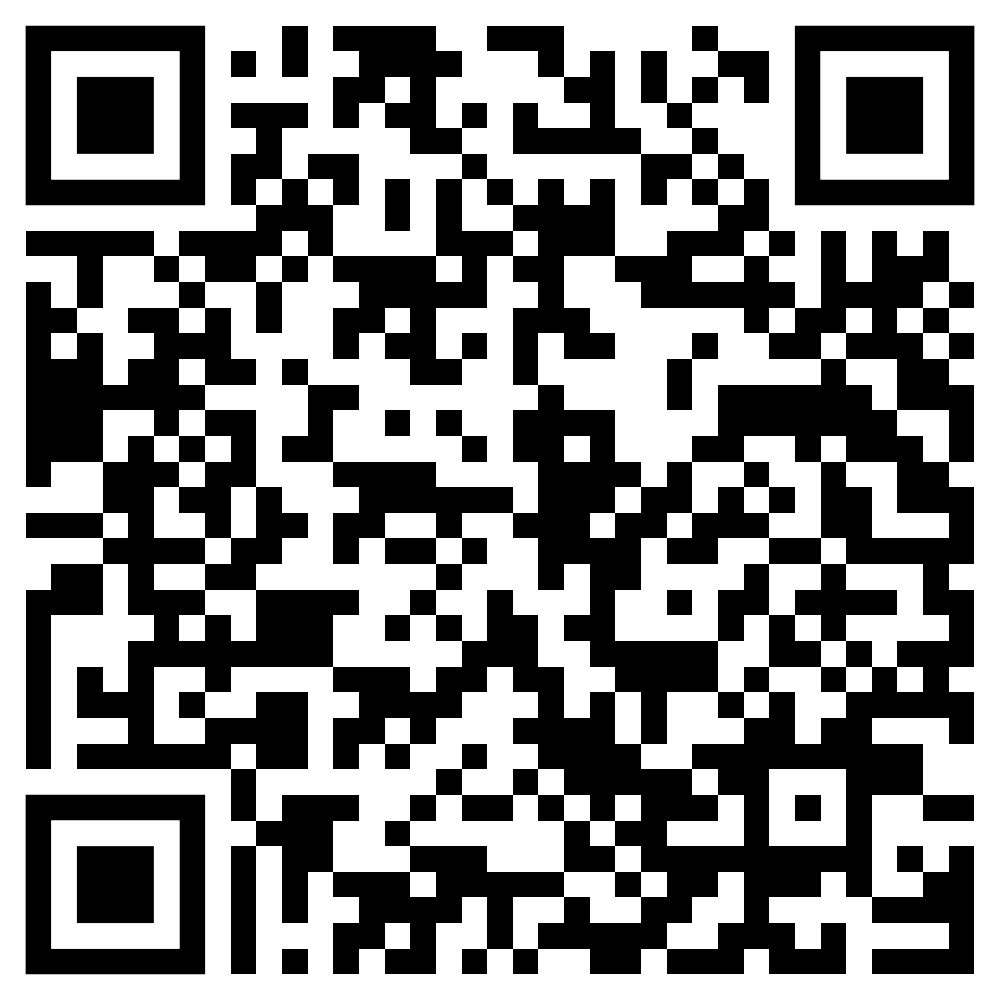
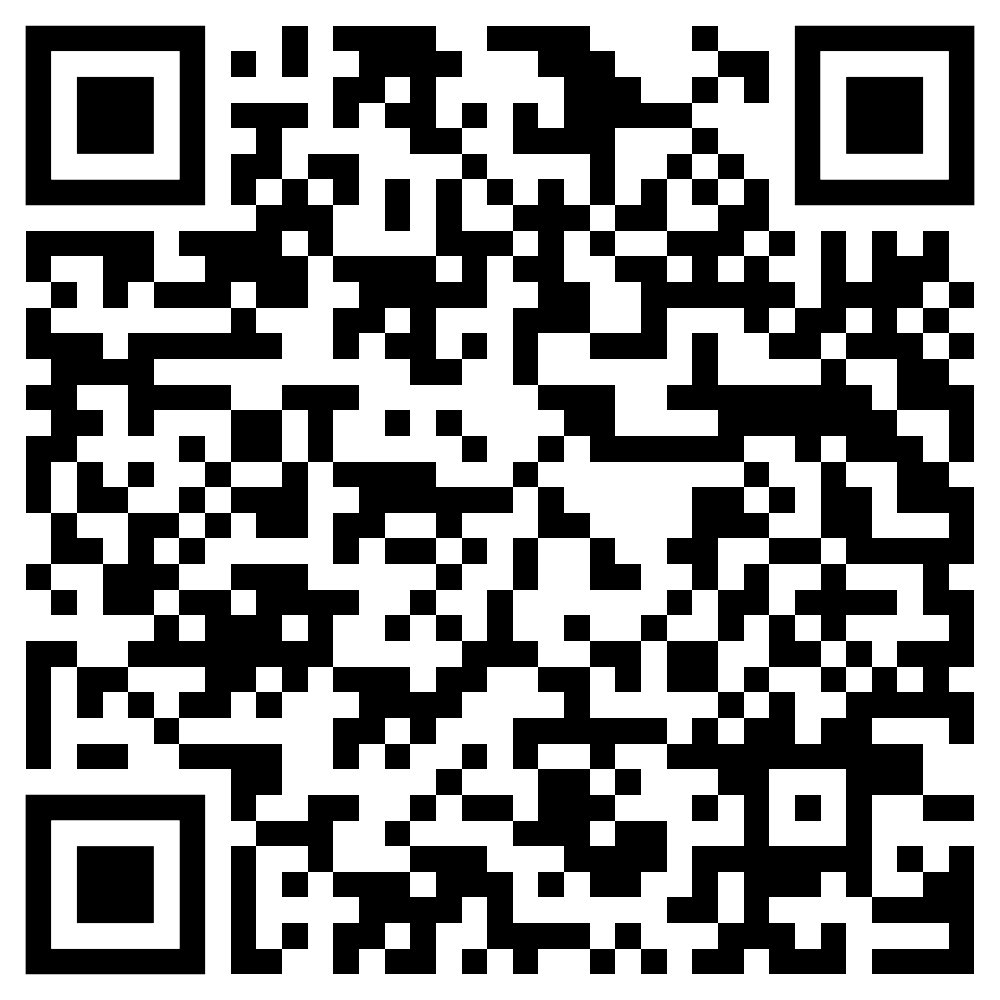
update readme file

diff --git a/README.md b/README.md
@@ -2,104 +2,36 @@
 
 Aplicativo desenvolvido para o desafio de Flutter da [Codesh](https://coodesh.com/). 
 
+A aplicação recupera dados do Firestore através de uma Realtime Database e gera uma lista editável de produtos.
+
 ## Instruções de instalação
 
-Para instalar o aplicativo basta executar o [.apk](https://drive.google.com/file/d/16UJIWGMFizQ4ar8Cpyko8X9NBxAjKBzz/view?usp=sharing) no seu dispositivo android. É importante ativar a permissão de "[Fontes Desconhecidas](https://www.tudocelular.com/curiosidade/noticias/n139751/como-instalar-apps-fontes-desconhecidas-android.html)" para conseguir instalar o arquivo.
+Para instalar o aplicativo basta executar o [.apk](https://drive.google.com/file/d/12vVerydVGksyuMH3OEVhmjzadZnGNH-1/view?usp=sharing) no seu dispositivo android. É importante ativar a permissão de "[Fontes Desconhecidas](https://www.tudocelular.com/curiosidade/noticias/n139751/como-instalar-apps-fontes-desconhecidas-android.html)" para conseguir instalar o arquivo.
 
+<img title="" src="assets/qrcode.png" alt="QR code para Download" width="163" data-align="center">
 
+Ou clicando [aqui](https://drive.google.com/file/d/12vVerydVGksyuMH3OEVhmjzadZnGNH-1/view?usp=sharing).
 
-![QR code para Download](assets/DownloadQR.png)
+## Instruções de utilização
 
-Ou clicando [aqui](https://drive.google.com/file/d/16UJIWGMFizQ4ar8Cpyko8X9NBxAjKBzz/view?usp=sharing).
+Na tela principal do aplicativo há uma lista de produtos contendo as seguintes informações:
 
-# 
+- Foto
 
-__________________________________________________________
+- Título
 
-## Instruções do desafio
+- Tipo
 
-### Obrigatório
+- Avaliação
 
-- Leia atentamente todo o descritivo desse documento antes de qualquer coisa;
-- Trabalhar em um FORK deste repositório em seu usuário;
-- O projeto deverá ser desenvolvido em Flutter/Dart;
-- Os produtos disponíveis no projeto da aplicação devem ser recuperados através do Firebase Realtime DB ou Firestore;
-- Utilize sempre boas práticas nas implementações. OOP, SOLID, DDD, Clean Code, Injeção de Dependência são sempre bem-vindos e fazem toda diferença!!!
+- Data de criação
 
-## API / Firebase
+- Preço
 
-### Base de Dados
+Também é possível excluir e editar os items através dos botões em cada um dos items.
 
-- Utilizar o Firestore ou Firebase Realtime DB
+**Para editar um item**, basta tocar no ícone do lápis no canto superior direito do card. Uma tela de edição aparecerá com os campos preenchidos com as informações atuais do item selecionado. Basta editar os campos existentes. É necessário que o campo de título não seja vazio! Caso contrário, as edições não poderão ser confirmadas.
 
-- Processar os produtos do arquivo [products.json](products.json) para termos dados para editar e excluir durante os testes 
+**Para excluir um item**, basta tocar no ícone "X" no canto superior direito do card. Em seguida, aparecerá uma mensagem de confirmação, então basta confirmar a exclusão do item. 
 
-## Aplicação Flutter
-
-![<img src="assets/images/home.png" height="500" alt="Home" title="Home"/>](assets/images/home.png)
-
-#### Listar produtos
-
-Criar uma sessão na tela com uma lista de os produtos processados pela API. É importante ter os seguintes campos:
-
-        - Foto
-        - Title
-        - Type
-        - Rating
-        - Price
-        - Created (Data do upload do produto a nova base de datos)
-        - Actions (Botões Editar e Excluir)
-
-#### Editar produto
-
-Na tabela com os produtos precisamos disponibilizar os formulários com todos os campos dos produtos para que a equipe possa editá-los. 
-Fazer validação de alguns campos obrigatórios:
-
-        - Title
-        - Type
-        - Price
-
-#### Remover produto
-
-Antes de completar a ação de remover produto, devemos perguntar ao usuário se ele realmente 
-quer realizar a ação. Para evitar a remoção de produtos de maneira indesejada. Após remover com êxito, notificar o usuário com um alerta de sucesso. 
-
-#### Extras
-
-**Diferencial 1** - Utilizar Unit Test no front-end para a opção de `Remover produto`. 
-
-**Diferencial 2** - Utilizar Unit Test para revisar se está listando produtos 
-
-**Diferencial 3 -** Utilizar alguma ferramenta de Injeção de Dependência
-
-**Diferencial 4 -** Utilizar alguma ferramenta para download e cache de imagens
-
-#### Publicar
-
-Utilizar seu repositório para disponibilizar a aplicação as versões Android e/ou iOS.
-
-## Readme do Repositório
-
-- Deve conter o título de cada projeto
-- Uma descrição de uma frase
-- Como instalar e usar o projeto (instruções)
-- Não esqueça o [.gitignore](https://www.toptal.com/developers/gitignore)
-- Link de downloads para iOS e/ou Android
-
-## Finalização
-
-Avisar sobre a finalização e enviar para correção em: [https://coodesh.com/review-challenge](https://coodesh.com/review-challenge) 
-
-Após essa etapa será marcado a apresentação/correção do projeto.
-
-## Instruções para a Apresentação:
-
-1. Será necessário compartilhar a tela durante a vídeo chamada;
-2. Deixe todos os projetos de solução previamente abertos em seu computador antes de iniciar a chamada;
-3. Deixe os ambientes configurados e prontos para rodar; 
-4. Prepara-se pois você será questionado sobre cada etapa e decisão do Challenge;
-5. Prepare uma lista de perguntas, dúvidas, sugestões de melhorias e feedbacks (caso tenha).
-
-## Suporte
-
-Use o nosso canal no slack: http://bit.ly/32CuOMy para tirar dúvidas sobre o processo ou envie um e-mail para contato@coodesh.com. 
+Após a exclusão de todos os items, aparecerá uma mensagem informando que o banco de dados está vazio, então basta pressionar o botão para redefinir a base de dados no centro da tela. Isso fará com que os items sejam restaurados ao seu estado original, descartando todas as modificações realizadas previamente.

diff --git a/assets/Instruções do desafio.md b/assets/Instruções do desafio.md
@@ -1,0 +1,87 @@
+# Instruções do desafio
+
+### Obrigatório
+
+- Leia atentamente todo o descritivo desse documento antes de qualquer coisa;
+- Trabalhar em um FORK deste repositório em seu usuário;
+- O projeto deverá ser desenvolvido em Flutter/Dart;
+- Os produtos disponíveis no projeto da aplicação devem ser recuperados através do Firebase Realtime DB ou Firestore;
+- Utilize sempre boas práticas nas implementações. OOP, SOLID, DDD, Clean Code, Injeção de Dependência são sempre bem-vindos e fazem toda diferença!!!
+
+## API / Firebase
+
+### Base de Dados
+
+- Utilizar o Firestore ou Firebase Realtime DB
+
+- Processar os produtos do arquivo [products.json](products.json) para termos dados para editar e 
+
+## Aplicação Flutter
+
+![<img src="assets/images/home.png" height="500" alt="Home" title="Home"/>](images/home.png)
+
+#### Listar produtos
+
+Criar uma sessão na tela com uma lista de os produtos processados pela API. É importante ter os seguintes campos:
+
+        - Foto
+        - Title
+        - Type
+        - Rating
+        - Price
+        - Created (Data do upload do produto a nova base de datos)
+        - Actions (Botões Editar e Excluir)
+
+#### Editar produto
+
+Na tabela com os produtos precisamos disponibilizar os formulários com todos os campos dos produtos para que a equipe possa editá-los. 
+Fazer validação de alguns campos obrigatórios:
+
+        - Title
+        - Type
+        - Price
+
+#### Remover produto
+
+Antes de completar a ação de remover produto, devemos perguntar ao usuário se ele realmente 
+quer realizar a ação. Para evitar a remoção de produtos de maneira indesejada. Após remover com êxito, notificar o usuário com um alerta de sucesso. 
+
+#### Extras
+
+**Diferencial 1** - Utilizar Unit Test no front-end para a opção de `Remover produto`. 
+
+**Diferencial 2** - Utilizar Unit Test para revisar
+
+**Diferencial 3 -** Utilizar alguma ferramenta de Injeção de Dependência
+
+**Diferencial 4 -** Utilizar alguma ferramenta para download e cache de imagens
+
+#### Publicar
+
+Utilizar seu repositório para disponibilizar a aplicação as versões Android e/ou iOS.
+
+## Readme do Repositório
+
+- Deve conter o título de cada projeto
+- Uma descrição de uma frase
+- Como instalar e usar o projeto (instruções)
+- Não esqueça o [.gitignore](https://www.toptal.com/developers/gitignore)
+- Link de downloads para iOS e/ou Android
+
+## Finalização
+
+Avisar sobre a finalização e enviar para correção em: [https://coodesh.com/review-challenge](https://coodesh.com/review-challenge) 
+
+Após essa etapa será marcado a apresentação/correção do projeto.
+
+## Instruções para a Apresentação:
+
+1. Será necessário compartilhar a tela durante a vídeo chamada;
+2. Deixe todos os projetos de solução previamente abertos em seu computador antes de iniciar a chamada;
+3. Deixe os ambientes configurados e prontos para rodar; 
+4. Prepara-se pois você será questionado sobre cada etapa e decisão do Challenge;
+5. Prepare uma lista de perguntas, dúvidas, sugestões de melhorias e feedbacks (caso tenha).
+
+## Suporte
+
+Use o nosso canal no slack: http://bit.ly/32CuOMy para tirar dúvidas sobre o processo ou envie um e-mail para contato@coodesh.com. 
